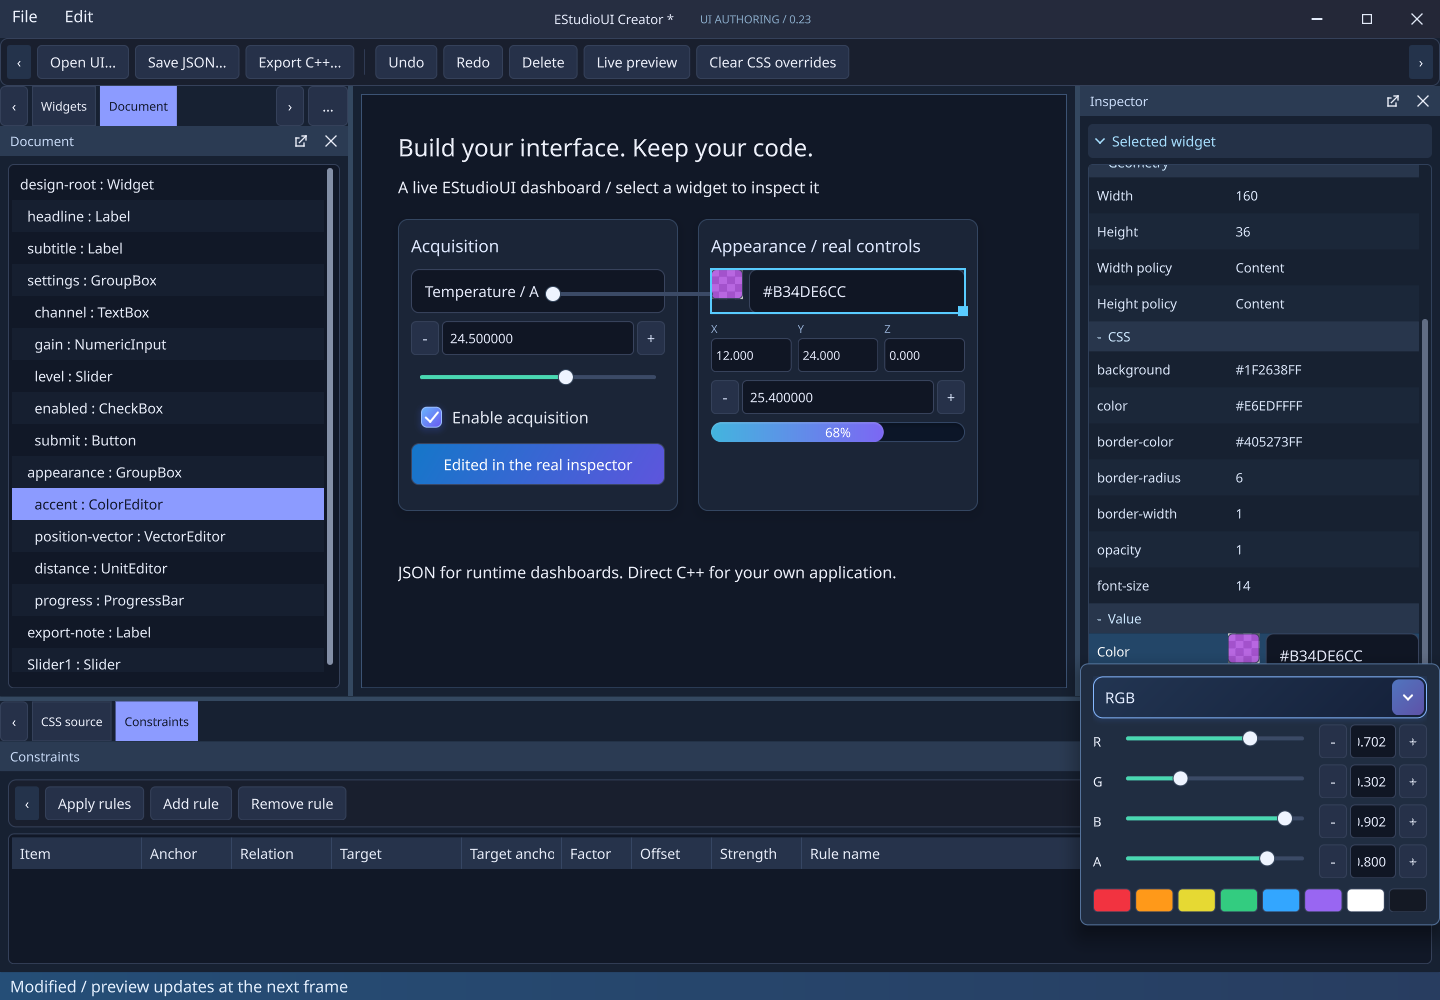
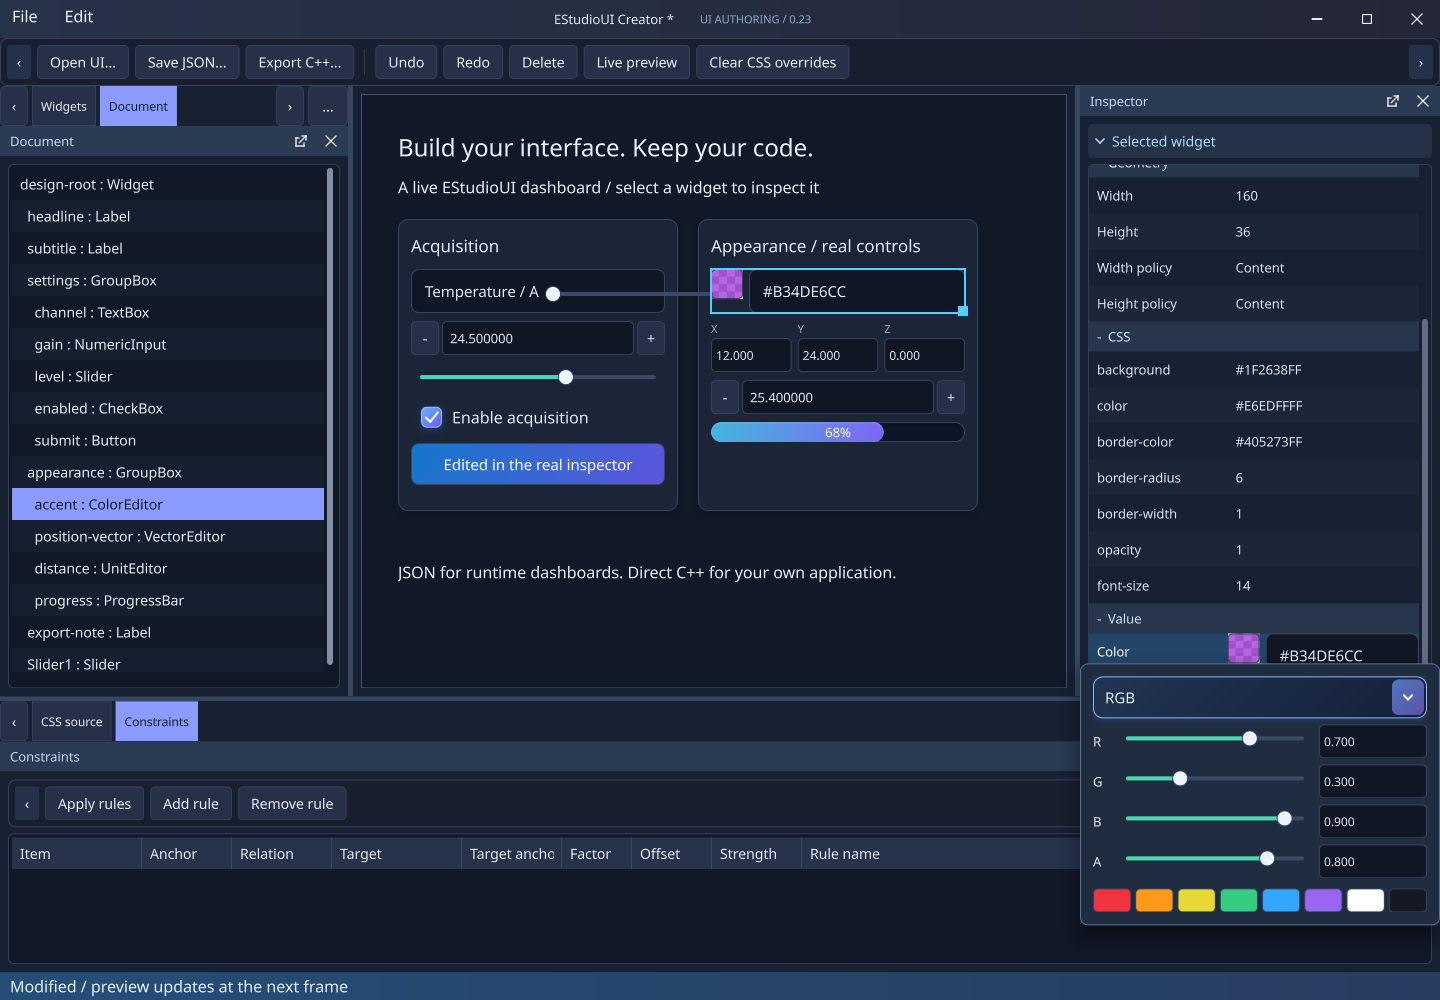
Record complete property editor and Creator verification [skip ci]

Changed region(s): [[0.9062, 0.713, 1.0, 0.899]]

diff --git a/verification/PROPERTY_CREATOR_0_23.md b/verification/PROPERTY_CREATOR_0_23.md
@@ -6,13 +6,14 @@ framebuffers, converted losslessly from PPM to PNG. They are not mockups.
 
 ## Automated evidence
 
+The final source is `f9176dad8d60eafb17b66dac7d40206fe91d9cb6`.
 Local GNU 13 Release passes **46/46 CTest suites**, including the existing GPU
-integration and rendering-profile suites. The final complete pass took 15.49 s
+integration and rendering-profile suites. The final complete pass took 17.86 s
 on this software-GL host. New suites report:
 
 | Check | Evidence |
 | --- | --- |
-| PropertyEditing | 37 checks: canonical units and affine conversion, dimension rejection, vector atomicity, RGBA/HSV/hex behavior, State binding rollback, observer failure recovery, bounded reentrant feedback, 10,000 virtual rows with one editor, lazy semantic edits and dataset expiry |
+| PropertyEditing | 38 checks: canonical units and affine conversion, dimension rejection, vector atomicity, RGBA/HSV/hex behavior, passive focus-loss precision, State binding rollback, observer failure recovery, bounded reentrant feedback, 10,000 virtual rows with one editor, lazy semantic edits and dataset expiry |
 | UiDocument | 22 checks: JSON round trip, duplicate keys/IDs, versions, bounds, unknown types/properties, invalid references and text, integer grid schema, actual typed construction, constraints, staged failure preserving the host, custom adapters and source escaping |
 | CreatorGenerated | 97 checks: a build-time generator exports direct C++ for all 40 registered types, the build compiles that source, and the test compares actual widget identities/geometry and exact UTF-8 label bytes against JSON/runtime construction |
 | CreatorGpuIntegration | 24 checks: real inspector commits, preview identity reuse, undo/redo, typed palette creation, JSON/C++ outputs, color popover dismissal, invalid-value rollback, captured movement/resizing, one undo per gesture, zero idle repaint, retained/full framebuffer equality and canvas-hosted runtime widget interaction/placement/pixels |
@@ -23,14 +24,43 @@ The generator does not feed JSON to its generated C++; both paths independently
 construct widgets from the same owned design values.
 
 The Release build reports no C++ compiler warnings. The existing libunibreak
-package emits its pre-existing CMake developer-scope warnings. A host file-cache
-materialization removed execute permission from several generated ELF files;
-permissions were restored before the final complete CTest pass. No source change
-was needed for that host issue.
+package emits its pre-existing CMake developer-scope warnings. An interrupted
+earlier build lost generated-file execute permissions; the final clean recovery
+build and complete test pass needed no such repair.
 
-ASan/UBSan and Windows CI results are recorded after their runs complete. They are
-not implied by the local Release result. Leak detection must be disabled on this
-traced host; address and undefined-behavior checks remain enabled.
+Linux CI on this source passes **46/46 suites** in 17.45 s and the separate
+**6/6 ThreadSanitizer suites** in 1.77 s. The complete run is
+[Build and test / 40027371548](https://github.com/jamedev/EStudioUI/actions/runs/40027371548).
+
+A clean GNU 13 Debug build with `-O1 -g1` and **ASan/UBSan passes 46/46 suites**
+in 150.41 s, including Creator and gallery framebuffer checks and the rendering
+profile. It uses `ASAN_OPTIONS=detect_leaks=0` and
+`UBSAN_OPTIONS=halt_on_error=1`; address and undefined-behavior checks remain
+enabled. Leak detection is disabled because this host traces processes.
+
+Windows MSVC 2022 CI passes **47/47 Release suites** in 9.33 s and
+**47/47 Debug suites** in 117.68 s. Its real Win32/WGL gallery framebuffer
+self-test passes with Mesa 26.2.4 / llvmpipe, the Creator reports **24/24 GPU
+checks**, and the native rendering-profile smoke passes. All **five additional
+Debug NativePlatform runs pass 99 checks each**. The complete workflow succeeds
+on the exact source commit above; both configurations execute the Windows
+PowerShell 5.1 `Build.ps1` path. No MSVC C++ compiler warnings are reported.
+
+## Recovery fixes
+
+Windows CI exposed a `MessageBox` macro collision in the Creator, fixed by
+undefining the Win32 convenience macro after the native header. Its next Release
+run passed all 47 suites but stopped in the existing gallery framebuffer probe:
+GLFW silently ignores cursor positioning when foreground activation is declined.
+The test helper now positions the actual Win32 cursor through client-to-screen
+coordinates and still verifies its position before invoking the production drop
+callback. It does not bypass hit testing, owned UTF-8 copying or deferred delivery.
+This is a probe correction, not a change to application focus behavior.
+
+A canonical float RGBA value is no longer quantized by an untouched hexadecimal
+field losing focus; the new regression observes zero changes. Fresh captures also
+exposed squeezed color-channel input text. The compact theme now reserves the
+field for its complete value, with keyboard/wheel stepping available.
 
 ## Actual renderer captures
 

diff --git a/PROPERTY_EDITING.md b/PROPERTY_EDITING.md
@@ -69,7 +69,8 @@ alpha, sliders, numeric values and a small palette. Canonical values are always
 finite normalized RGBA. Hexadecimal input accepts `#RGB`, `#RGBA`, `#RRGGBB` and
 `#RRGGBBAA`; invalid intermediate text preserves the last committed color. Hex
 formatting quantizes display to eight bits; programmatic RGBA values retain their
-float precision. Picker changes are live edits, and Escape dismisses the popover.
+float precision. Leaving an unedited hex field preserves that precision and emits
+no color change. Picker changes are live edits, and Escape dismisses the popover.
 
 `UnitEditor` stores a finite canonical scalar. Display conversion is
 `canonical = displayed * scale + offset`; switching units does not emit a value

diff --git a/FOUNDATIONS_ROADMAP.md b/FOUNDATIONS_ROADMAP.md
@@ -35,7 +35,7 @@ command history, geometry, and persistence; these are not promised modules or
 current standalone SDKs. Public API usability and supported extension points
 remain acceptance criteria throughout.
 
-## Implementation status: 0.21, scrolling and page composition on verified foundations
+## Implementation status: 0.23, property editing and the first Creator application
 
 The 0.14.1 maintenance increment fixes retained native window closure, stable
 GPU capture after presentation, and MSVC conversion warnings before the initial F11 increment.
